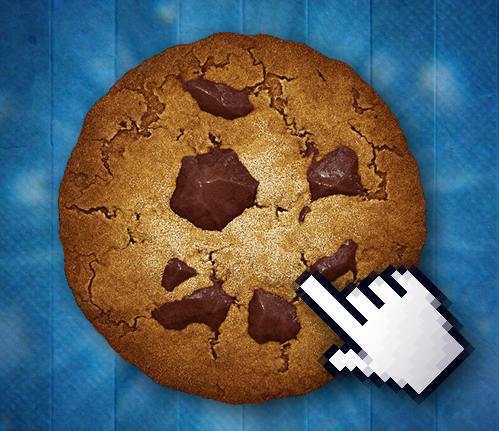
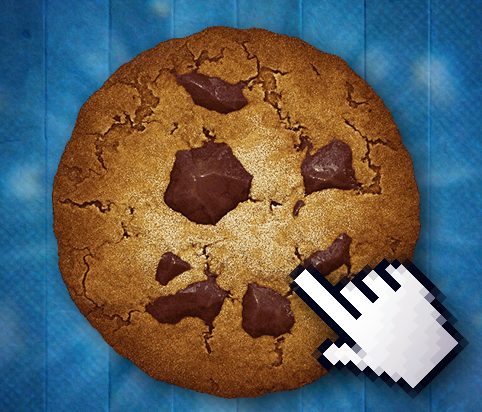
add images with clickys

diff --git a/module_1_game_design.html b/module_1_game_design.html
@@ -540,6 +540,14 @@
         text-decoration: none;
         cursor: pointer;
       }
+
+      .accordion-content img {
+        width: 40%;
+        height: auto;
+        border-radius: 8px;
+        margin-left: 15px;
+        border: 1px solid #ddd;
+      }
     </style>
   </head>
   <body>
@@ -781,8 +789,8 @@
       <div class="content">
         <h2>What Actually Makes a Game Fun?</h2>
         <p>
-          When you're starting out, focus on games with one or two of these
-          features:
+          There are some easy things to focus on that will make a game fun, here
+          are three of them:
         </p>
 
         <div class="accordion">
@@ -801,6 +809,10 @@
                 <strong>Example:</strong> Cookie Clicker. One click = instant
                 feedback. It's addictive because it's satisfying.
               </p>
+              <img
+                src="images/cookie-clicker.png"
+                alt="Cookie Clicker game screenshot"
+              />
             </div>
           </div>
 
@@ -811,14 +823,18 @@
             </div>
             <div class="accordion-content">
               <p>
-                Games like Flappy Bird, Snake, or Dodge. You're trying not to
-                lose. There's a fail state that's always seconds away. You get
-                better over time. This scratches the "mastery" itch.
+                Games like Geomatry Dash, Flappy Bird, or Snake. You're trying
+                not to lose. There's a fail state that's always seconds away.
+                You get better over time. This scratches the "mastery" itch.
               </p>
               <p>
-                <strong>Example:</strong> Flappy Bird. One wrong tap and you're
-                done. The pressure keeps you engaged.
+                <strong>Example:</strong> Geometry Dash. One wrong tap and
+                you're done. The pressure keeps you engaged.
               </p>
+              <img
+                src="images/geo-dash.png"
+                alt="Geometry Dash game screenshot"
+              />
             </div>
           </div>
 
@@ -834,10 +850,11 @@
                 feels right. The controls respond instantly.
               </p>
               <p>
-                <strong>Example:</strong> Breakout. Hitting the ball with the
-                paddle feels amazing because the timing is tight and the
+                <strong>Example:</strong> Tetris. Lining up the blocks and
+                making a line feels amazing because the timing is tight and the
                 feedback is immediate.
               </p>
+              <img src="images/tetris.png" alt="Tetris game screenshot" />
             </div>
           </div>
         </div>
@@ -851,8 +868,8 @@
 
       <!-- Page 5: Start 2D, Start Solo with Info Popups -->
       <div class="content">
-        <h2>Start 2D. Start Solo.</h2>
-        <p>This isn't a limitation—it's a feature.</p>
+        <h2>Start 2D. Start Single-Player.</h2>
+        <p>This is a feature, not a limitation.</p>
 
         <div class="highlight-box">
           <div>
@@ -888,12 +905,12 @@
           <h2>Why 2D?</h2>
           <p>
             3D requires way more art, physics, and processing power. Your GPU
-            has to work hard. Your artists have to model everything in three
-            dimensions. Your code gets complicated fast.
+            has to work hard and your code gets complicated fast. There are also
+            a lot more steps to develop 3D games and make them feel fun.
           </p>
           <p>
             <strong>2D lets you focus on what actually matters:</strong> making
-            the core game loop feel good.
+            the core game loop feel good, and doing it quickly.
           </p>
           <p>
             You can build, test, and refine a 2D game in
@@ -919,14 +936,12 @@
             <li>Servers (cost money, need maintenance)</li>
             <li>Lag & latency issues (feels bad to play)</li>
             <li>Matchmaking (complex code)</li>
-            <li>
-              Debugging nightmares (two+ players = exponential complexity)
-            </li>
+            <li>Debugging nightmares (two+ players = lots of complexity)</li>
           </ul>
           <p>
             <strong>Single-player means you control the experience.</strong> You
             can focus on the game, not the infrastructure. You can make it feel
-            amazing without worrying about a tenth of the complexity.
+            amazing without worrying added complexity.
           </p>
           <p>
             Once you nail single-player, then you can think about multiplayer.
@@ -1281,14 +1296,16 @@
       function toggleAccordion(el) {
         const accordion = el.closest(".accordion");
         const allItems = accordion.querySelectorAll(".accordion-item");
+        const wasActive = el.classList.contains("active");
 
         allItems.forEach((item) => {
-          if (item !== el) {
-            item.classList.remove("active");
-          }
+          item.classList.remove("active"); // Deactivate all
         });
 
-        el.classList.toggle("active");
+        if (!wasActive) {
+          // If the clicked one was not active, activate it
+          el.classList.add("active");
+        }
       }
 
       function openModal(id) {
@@ -1304,12 +1321,15 @@
         if (!imageModal) return;
 
         const modalImg = document.getElementById("modal-image");
-        const gameImages = document.querySelectorAll(".game-image img");
+        const gameImages = document.querySelectorAll(
+          ".game-image img, .accordion-content img"
+        );
         const closeModalBtn = document.getElementById("close-image-modal");
 
         gameImages.forEach((img) => {
           img.style.cursor = "pointer"; // Add cursor pointer to indicate it's clickable
-          img.addEventListener("click", function () {
+          img.addEventListener("click", function (event) {
+            event.stopPropagation(); // Prevent event from bubbling up to accordion-item
             imageModal.classList.add("active");
             modalImg.src = this.src;
           });
